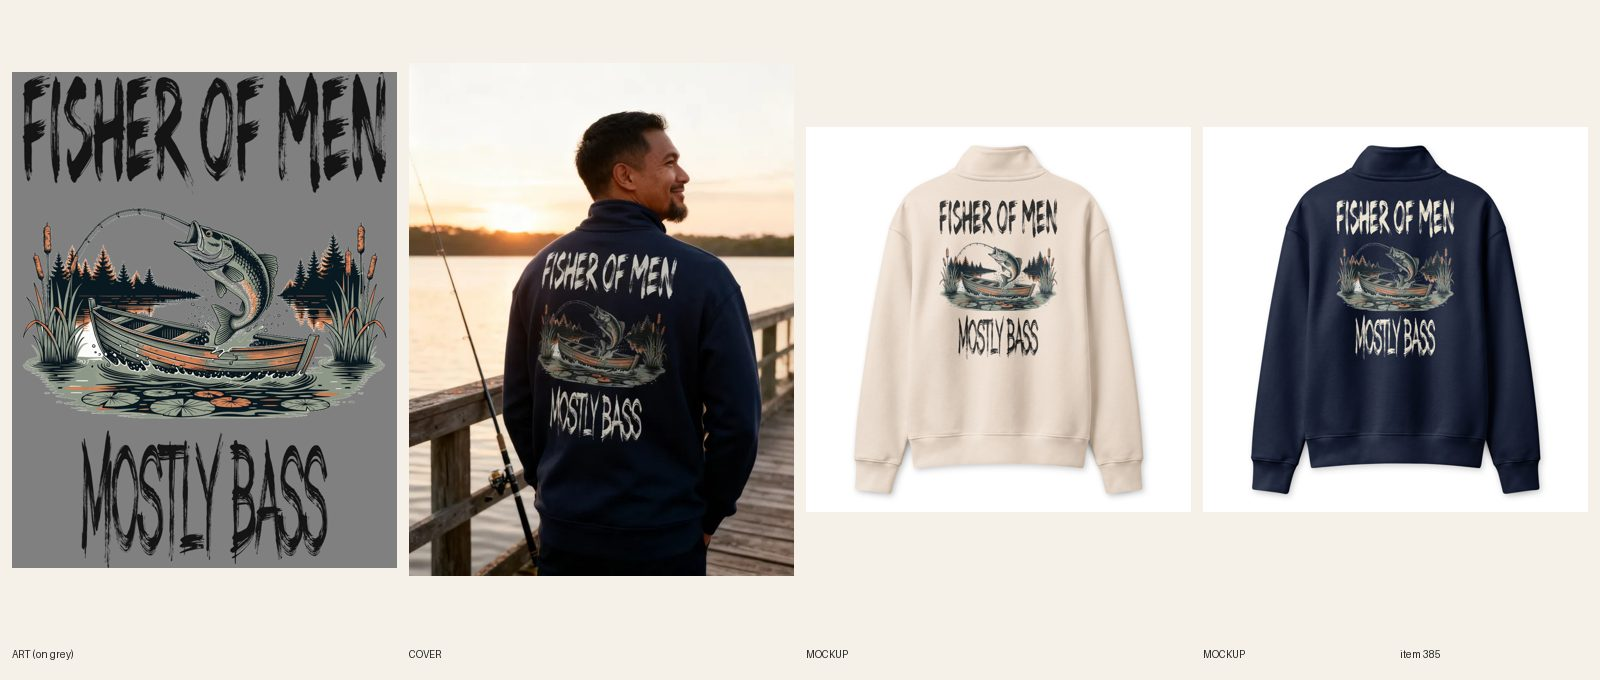
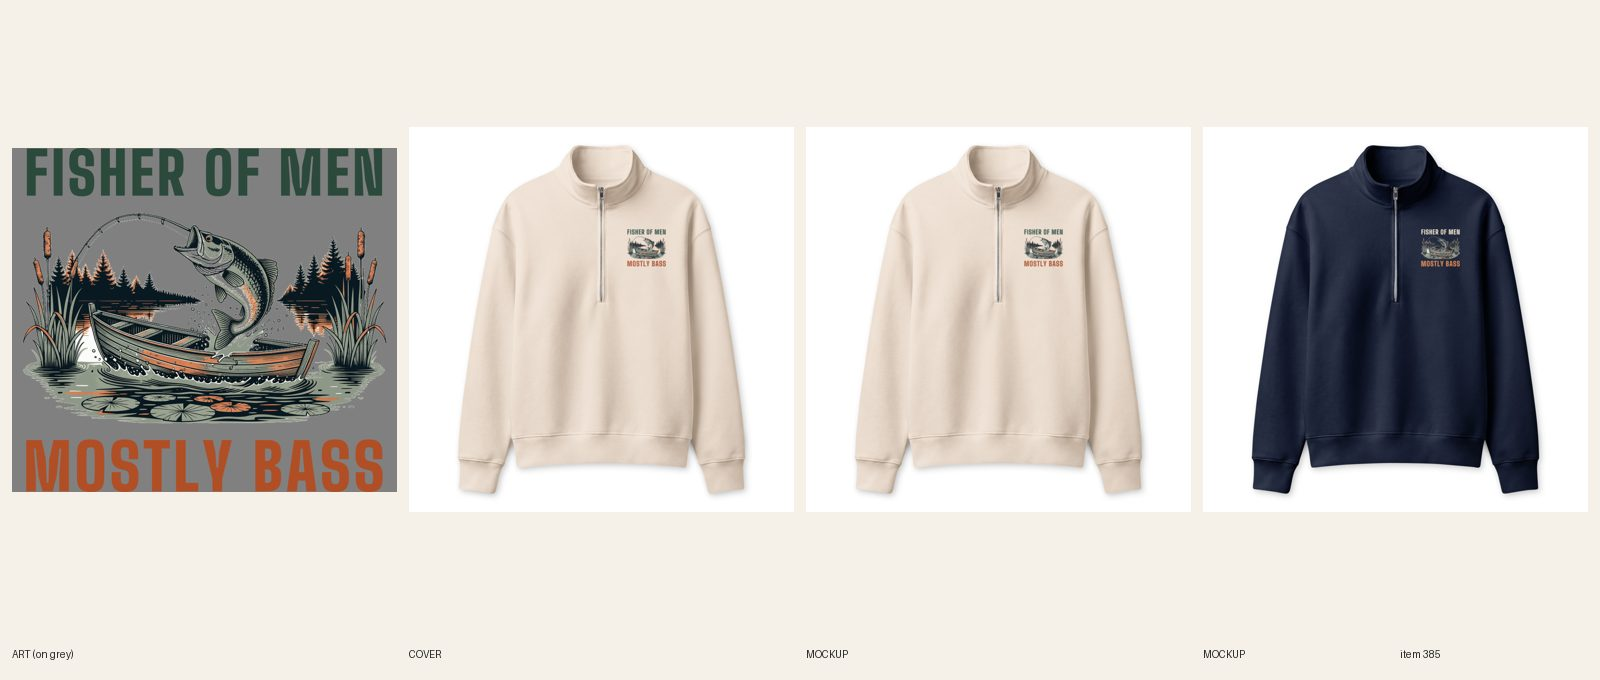
[B] review 385 Fisher of Men half zip (type redo)
Claude-Session: https://claude.ai/code/session_01Dq7nkfzkZKe3atpf5EN47x

Changed region(s): [[0.0, 0.0926, 0.5, 0.8647], [0.8125, 0.2162, 0.9375, 0.525], [0.5625, 0.2162, 0.6875, 0.525]]

diff --git a/designs/b385/build.py b/designs/b385/build.py
@@ -1,0 +1,36 @@
+"""#385 Fisher of Men half zip: keep the lake scene, re-set both lines in Big Shoulders Display Black.
+usage: build.py <scene.png> <out.png> <head_fill> <sub_fill>"""
+import sys
+from PIL import Image, ImageDraw, ImageFont
+scene, out, hf, sf = sys.argv[1:5]
+FONT = 'designs/fonts/BigShouldersDisplay[wght].ttf'
+art = Image.open(scene).convert('RGBA')
+art = art.crop(art.getbbox())
+AW = art.width
+
+def line(text, fill, target, track):
+    size = 400
+    while True:
+        f = ImageFont.truetype(FONT, size); f.set_variation_by_axes([900])
+        adv = [f.getlength(c) for c in text]
+        tot = sum(adv) + track * size * (len(text) - 1)
+        if tot >= target: break
+        size += 10
+    f = ImageFont.truetype(FONT, size); f.set_variation_by_axes([900])
+    im = Image.new('RGBA', (int(tot) + 400, size * 2), (0, 0, 0, 0)); d = ImageDraw.Draw(im)
+    x = 200
+    for c, a in zip(text, adv):
+        d.text((x, 100), c, font=f, fill=fill); x += a + track * size
+    return im.crop(im.getbbox())
+
+h = line('FISHER OF MEN', hf, AW * 0.98, 0.05)
+s = line('MOSTLY BASS', sf, AW * 0.98, 0.05)
+print('head', h.size, 'sub', s.size, 'art', art.size)
+GAP = 150
+W = 3600
+H = h.height + art.height + s.height + 2 * GAP
+c = Image.new('RGBA', (W, H), (0, 0, 0, 0))
+y = 0
+for im in (h, art, s):
+    c.alpha_composite(im, ((W - im.width) // 2, y)); y += im.height + GAP
+c.save(out, dpi=(300, 300)); print(out, c.size)

diff --git a/docs/pipeline/385-fishing-hz-fisher-of-men-mostly-bass.md b/docs/pipeline/385-fishing-hz-fisher-of-men-mostly-bass.md
@@ -1,4 +1,4 @@
-status: BUILDING [B] 2026-10-19 20:27
+status: REVIEW
 shopify: gid://shopify/Product/15365750915376
 lane: B
 type: twin
@@ -26,3 +26,4 @@ kd: 36
 - 2026-10-18 16:34 UTC builder [B]: DRAFT created (gid 15365750915376, 14 variants Dust + Vintage Heather Grey XS-3XL, $54.99, no compare-at, cat aa-1-13-14). R6.2: source FISHER OF MEN / MOSTLY BASS were typeset; re-lettered by hand with 2 Recraft lettering-only calls (FISHER OF MEN try 2, MOSTLY BASS try 1; spelling checked), old text erased, composed 3600x4637, dark ink file (reads on Dust and Vintage Heather Grey; Navy dropped, scene sinks on it). Sync/mockups next.
 - 2026-10-18 16:41 UTC builder [B]: REVIEW. CORRECTION to the line above: colors are Dust (dark-ink file 1088963408) + Navy (cream-lettering file 1088964275; light file: Navy on 1088964275, headline fill cream; Dust on dark file; Vintage Heather Grey is oatmeal, not a dark, and was dropped). R7.7: 14 variants (7 Dust + 7 Navy). Placement: back_large_dtf + chest_left_dtf (blank has no front DTF), print 3600x4637, no zipper crossing. Sync 482795649 14/14. Mockups: Dust + Navy front and back, variant images linked. Cover: registry 576, seedream try 1, Native Hawaiian man from behind on a dock, hands in pockets, hair clear, all words read, fal photo $0.06 + 3 recraft $0.12 total about $0.18 (docs/fal-spend.csv). Copy: FAQ 5 x 43-51 words incl. Dec 8, line one has fishing pullover + joke + occasion, no 'frame/badge' text, tag graphic-hoodies-for-men added, keyword map updated. design-crops.py does not list drafts, so no crop yet (add after publish). Audit --handle: only 'not visible on storefront' remains. Sheet docs/review/385.jpg.
 - 2026-10-19 15:45 UTC director: REDO on docs/review/385.jpg (type only, keep the art, the line and the AI cover subject). 1. Quality-reset type bar + R3.7.8: FISHER OF MEN and MOSTLY BASS are thin, streaky brush letters from Recraft; on the Navy mockup the cream strokes break up and MOSTLY BASS is only about 65% of the art width. Re-set both lines with scripts/compose-print.py in a heavy display font from designs/fonts (not one used on more than 1 in 6 of the last 30 designs), both at 90%+ of the art width, MOSTLY BASS at least 45% of the headline height, colors pulled from the art (pine green, rust from the boat) on the Dust file and cream + rust on Navy, solid fills with open counters (R5.3.8). 2. R6.10/RESUME terms: the new print means the cover no longer matches; no new cover, so add the handle to src/data/retired-covers.json and show the plain product shot. 3. R7.7: relink 14/14 on the new files and remake docs/review/385.jpg before REVIEW.
+- 2026-10-19 20:33 UTC builder [B]: REDO done (type only, art/line kept). Cut the lake scene from the old files and re-set both lines in Big Shoulders Display Black (designs/b385/build.py), solid fills, FISHER OF MEN and MOSTLY BASS each 98% of the art width (MOSTLY BASS taller than the headline): pine green + rust on Dust (file 1089839326), cream + orange on Navy (file 1089839344); light file: Navy on 1089839344, headline fill cream. Relinked 14/14 (chest_left_dtf + back_large_dtf, R7.7). 4 mockups (Dust/Navy front+back) replaced in place via fileUpdate; read at 400 px. Copy: lettering sentence rewritten from the mockups, line one unchanged (no superlative). Cover: handle added to retired-covers.json (plain product shot). Audit --handle only 'not visible'; astro build OK. fal $0. Sheet docs/review/385.jpg.

diff --git a/docs/intake-log.md b/docs/intake-log.md
@@ -1,7 +1,8 @@
 2026-10-19 20:31 UTC — [E] Builder run: redid #538 Women's Motherhood Didn't Change Me tee (type only: Alfa Slab rust headline full width + Bevan green IT EXPOSED ME., same art, FW 1400, file 1089823424, 30/30 resynced, 5 fronts replaced in place, plain product shot). REVIEW. fal $0. Lock released.
 RUNNING lane A since 2026-10-19 20:30 UTC
-RUNNING lane B since 2026-10-19 20:27 UTC
 2026-10-19 20:57 UTC — [C] Builder run: redid #487 Unisex University of Staying In crewneck (type only: Fraunces Black UNIVERSITY OF / STAYING IN full width cream+orange, bold EST. WHENEVER., same art, FW 1650 TOP 30, light file 1089833025 (Navy) + dark-ink file 1089833068 (Sand), 12/12 relinked, 2 fronts replaced in place, copy updated, plain product shot). REVIEW. fal $0. Lock released.
+2026-10-19 20:33 UTC — [B] Builder run: redid #385 Fisher of Men half zip (type only: Big Shoulders Display Black, both lines 98% of art width, pine/rust on Dust, cream/orange on Navy, same scene, 14/14 relinked, 4 mockups replaced in place, copy updated, plain product shot). REVIEW. fal $0. Lock released.
+RUNNING lane C since 2026-10-19 20:23 UTC
 2026-10-19 20:25 UTC — [D] Director run (RESUMED). Inbox: nothing new since the 17:55 note. Reviewed 7 new type-redo sheets (#556 #521 #478 #522 #562 #525 #527), all at the new type bar side by side with 493 and 483/479. LIVE 6 (cap): #560 #614 #625 #512 #460 (held from last run) and #556; #614 set ACTIVE + Online Store, Headless, Google & YouTube, the rest already ACTIVE. Audit --handle PASS 0 warn on all 6. Shopify copy fix: #556 Story still described the old lowercase script line. Approved and held at REVIEW: #521 #478 #522 #562 #525 #527 and the 31 add-ons. No REDO. READY: A 12, B 12, C 12 (E 5), so no new briefs. No Telegram (midday digest went at 12:20; nothing needs Sam). Monday check already done today. Lock released.
 2026-10-19 20:12 UTC — [B] Builder run: redid #548 National Park crewneck (ported #624 THE VIEW BETTER / BE WORTH IT. print, FW 1650, 12/12 relinked, 2 fronts replaced in place, copy updated, plain product shot). REVIEW. fal $0. 1 redo per run cap reached. Lock released.
 2026-10-19 20:22 UTC — [A] Builder run: redid #618 Women's Santa Gets All the Credit tee (type only: SANTA GETS in heavy Bowlby One cherry red + ALL THE CREDIT in Alfa Slab pine green, both at full art width, same art, FW 1500 TOP 75, file 1089801142, 36/36 relinked, 6 fronts replaced in place, copy updated, plain product shot). REVIEW. fal $0. Lock released.
